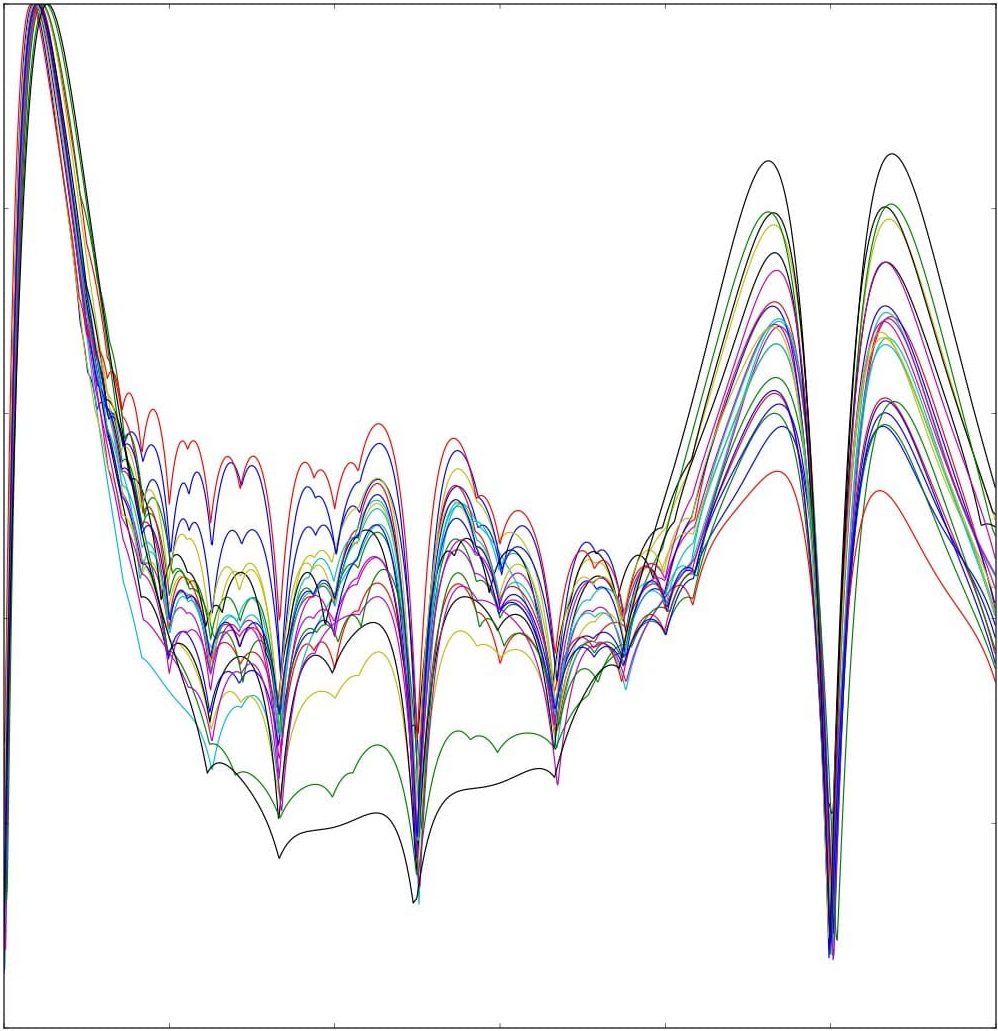
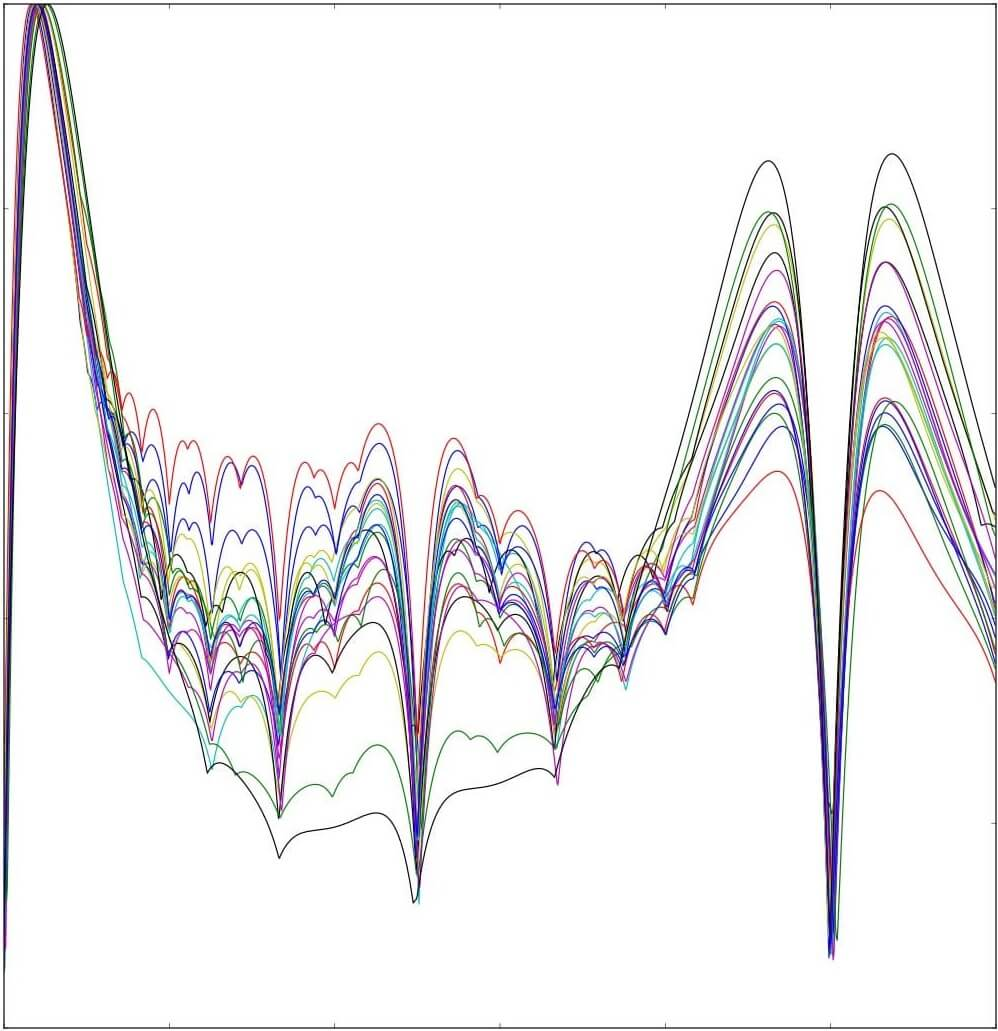
compressed all images for performance

diff --git a/public/index.html b/public/index.html
@@ -5,8 +5,7 @@
     <link rel="icon" href="%PUBLIC_URL%/favicon.ico" />
     <meta name="viewport" content="width=device-width, initial-scale=1" />
     <meta name="theme-color" content="#000000" />
-    <link rel="apple-touch-icon" href="%PUBLIC_URL%/logo192.png" />
-    <link rel="manifest" href="%PUBLIC_URL%/manifest.json" />
+
 
     <title>Brendan Richards</title>
   </head>

diff --git a/public/test.html b/public/test.html
@@ -1,0 +1,10 @@
+<!DOCTYPE html>
+<html>
+  <head>
+    <meta charset="utf-8">
+    <title>Test</title>
+  </head>
+  <body>
+    <p>Test</p>
+  </body>
+</html>
